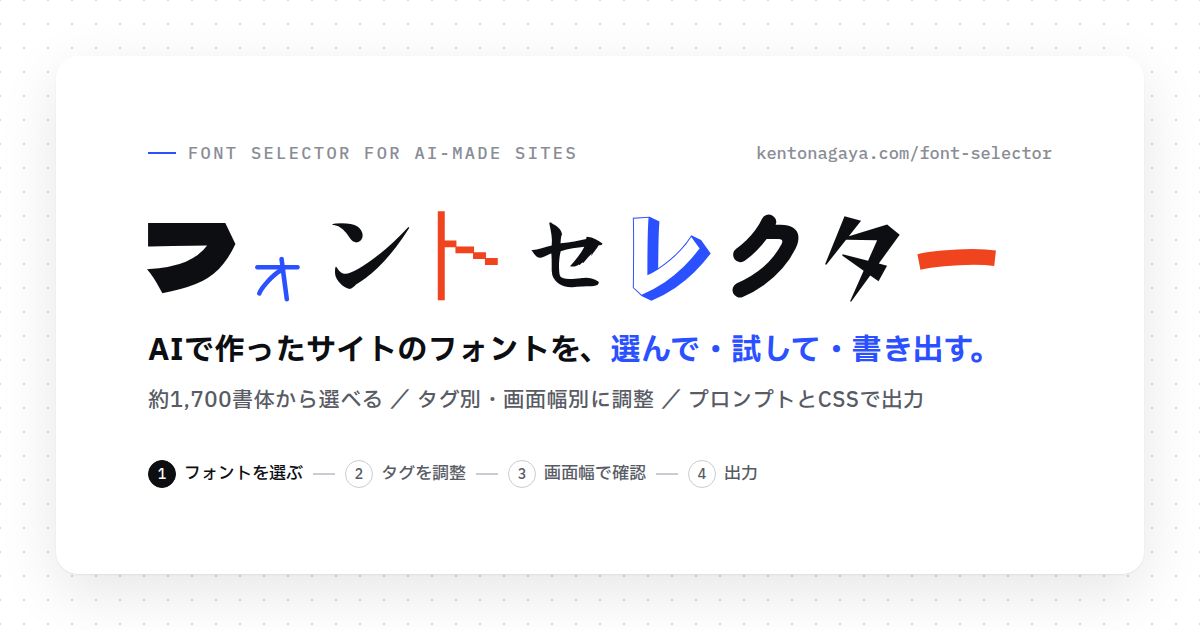
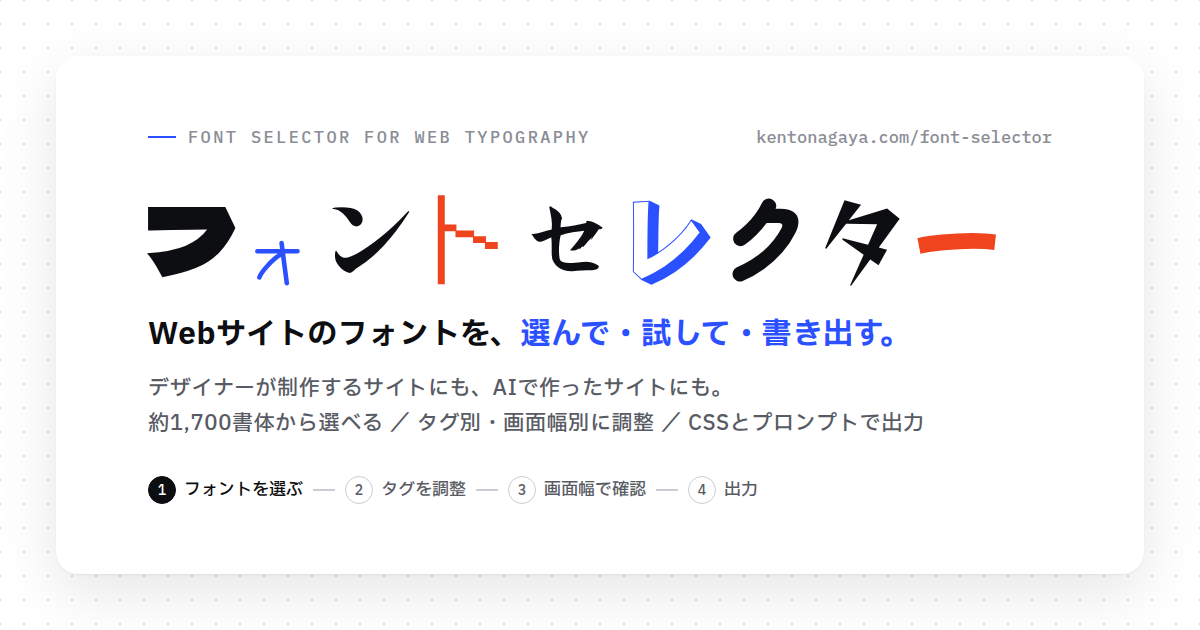
Add files via upload

diff --git a/font-selector/index.html b/font-selector/index.html
@@ -3,24 +3,24 @@
 <head>
 <meta charset="utf-8">
 <meta name="viewport" content="width=device-width, initial-scale=1">
-<meta name="description" content="AIで作ったWebサイトのフォントを、分類別に試して選べるツール。見出し・本文などタグごとのサイズやスマホ表示も調整でき、AIにそのまま渡せる指示文（プロンプト）とCSSファイルで書き出せます。">
+<meta name="description" content="Webサイトのフォントを、分類別に試して選べるツール。見出し・本文などタグごとのサイズやスマホ表示も調整でき、CSSファイルやAIへの指示文（プロンプト）で書き出せます。デザイナーが制作するサイトにも、AIで作ったサイトにも使えます。">
 <link rel="canonical" href="https://kentonagaya.com/font-selector/">
 <meta property="og:type" content="website">
 <meta property="og:site_name" content="Kento Nagaya">
 <meta property="og:title" content="フォントセレクター">
-<meta property="og:description" content="AIで作ったWebサイトのフォントを、分類別に試して選べるツール。見出し・本文などタグごとのサイズやスマホ表示も調整でき、AIにそのまま渡せる指示文（プロンプト）とCSSファイルで書き出せます。">
+<meta property="og:description" content="Webサイトのフォントを、分類別に試して選べるツール。見出し・本文などタグごとのサイズやスマホ表示も調整でき、CSSファイルやAIへの指示文（プロンプト）で書き出せます。デザイナーが制作するサイトにも、AIで作ったサイトにも使えます。">
 <meta property="og:url" content="https://kentonagaya.com/font-selector/">
 <meta property="og:locale" content="ja_JP">
 <meta property="og:image" content="https://kentonagaya.com/font-selector/ogp.png">
 <meta property="og:image:width" content="1200">
 <meta property="og:image:height" content="630">
-<meta property="og:image:alt" content="フォントセレクター：AIで作ったサイトのフォントを、選んで・試して・書き出す。">
+<meta property="og:image:alt" content="フォントセレクター：Webサイトのフォントを、選んで・試して・書き出す。">
 <meta name="twitter:card" content="summary_large_image">
 <link rel="icon" href="/font-selector/favicon.ico" sizes="any">
 <link rel="icon" href="/font-selector/favicon.svg" type="image/svg+xml">
 <link rel="apple-touch-icon" href="/font-selector/apple-touch-icon.png">
 <meta name="author" content="Kento Nagaya">
-<title>フォントセレクター | AIで作ったWebサイトのフォントを選んで試し、AIへの指示文とCSSで書き出せるツール</title>
+<title>フォントセレクター | Webサイトのフォントを選んで試し、CSSとAIへの指示文で書き出せるツール</title>
 <link rel="preconnect" href="https://fonts.googleapis.com">
 <link rel="preconnect" href="https://fonts.gstatic.com" crossorigin>
 <link rel="stylesheet" href="https://fonts.googleapis.com/css2?family=IBM+Plex+Sans:wght@400;500;600;700&family=IBM+Plex+Sans+JP:wght@400;500;700&family=IBM+Plex+Mono:wght@400;500&display=swap">
